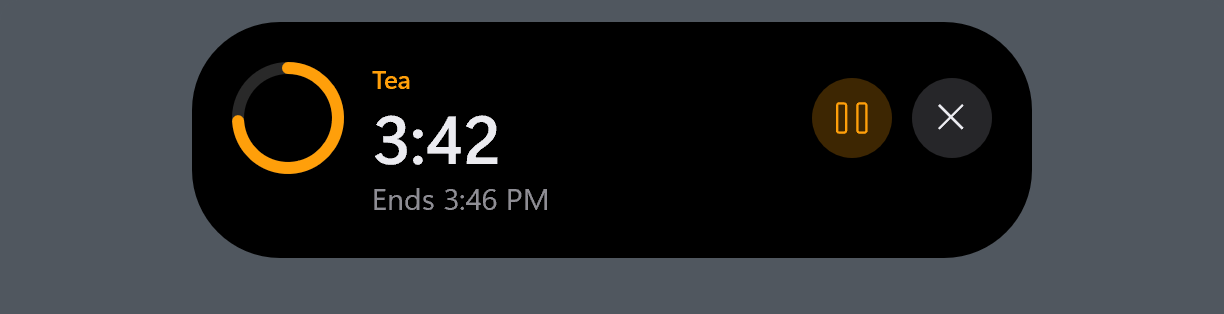
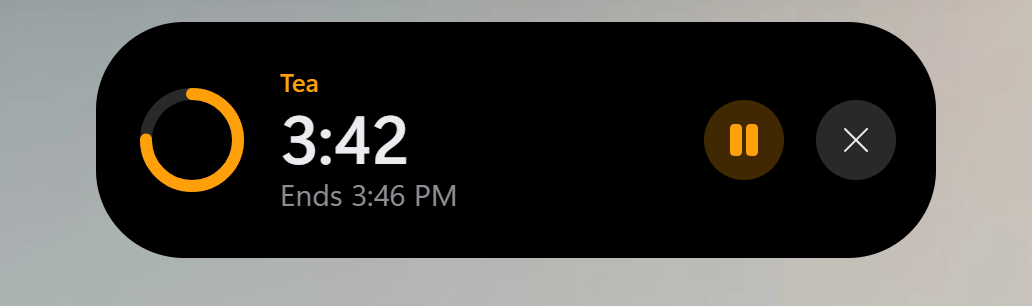
README: real pictures and content, and no click-through claim
The README's pictures now come from the website's island (site/, npm run
readme-images), with real content: Blinding Lights in Spotify with its cover,
the real Claude logo, ReUI's own device drawings, the view switcher under each
place. The old app-stage renderer stays for comparison and writes to %TEMP%.

The README and the guide no longer say a click on a pill that has just appeared
goes through to the window underneath: in the app a click on the pill is always
the island's. What's true stays: outside its shape, and in the strip above it,
clicks reach the window underneath.

diff --git a/README.md b/README.md
@@ -30,10 +30,10 @@
 </p>
 
 <p align="center">
-  <img src="docs/images/hero.png" width="960" alt="The island open at the top of the screen, playing Clair de Lune">
+  <img src="docs/images/hero.png" width="960" alt="The island open at the top of the screen, playing Blinding Lights by The Weeknd in Spotify, with the view switcher under it">
 </p>
 
-ReUI puts a small black island at the top of your screen. It shows what's playing, what you copied, your timers, your devices and the coding agents waiting on you, and lets you act on them without leaving the window you're in. Rest the pointer on it to peek, click to open, scroll to step through everything that's going on. Clicks pass through to the window underneath until you pause on the island, so it never gets in the way of a browser tab.
+ReUI puts a small black island at the top of your screen. It shows what's playing, what you copied, your timers, your devices and the coding agents waiting on you, and lets you act on them without leaving the window you're in. Rest the pointer on it to peek, click to open, scroll to step through everything that's going on. Everywhere outside its own shape it lets clicks through, including the strip above it at the very top of the screen, where a maximised browser keeps its tabs.
 
 It's a native Windows app written in Rust, and it sits idle until something happens: it follows Windows' own events and draws nothing while nothing moves.
 
@@ -41,13 +41,13 @@ It's a native Windows app written in Rust, and it sits idle until something happ
 
 ### Now Playing
 
-<img src="docs/images/now-playing.png" width="403" alt="The pill with music playing and a timer in the bubble beside it">
+<img src="docs/images/now-playing.png" width="212" alt="The pill with music playing: the album cover and the level bars">
 
 Whatever plays on your PC shows in the pill: Spotify, a browser, VLC, Media Player, anything in Windows' media controls. Open it for the artwork, a timeline you can scrub, the player's own controls and the volume. Swipe sideways on the pill to skip a track. Synced lyrics are there when you turn them on.
 
 ### Clipboard history
 
-<img src="docs/images/clipboard.png" width="752" alt="Clipboard history open: a search field and a row of cards for a note, a link, a colour and a command">
+<img src="docs/images/clipboard.png" width="656" alt="Clipboard history open: a search field and a row of cards for a note, a link, a colour and a command, with the view switcher under it">
 
 **Win+Alt+V** brings back everything you copied: text with its formatting, images, files, links with their page's title, colours, code. Type to search, press Enter to paste into the app you were in, or Alt+1 to Alt+9 to paste one of the first nine. Pin what you want to keep. Copies from password managers and anything that looks like a password, key or token are never saved, and the history is kept only on your PC.
 
@@ -57,13 +57,13 @@ Drag files, an image, a link or some text to the top of the screen and the islan
 
 ### Volume and brightness
 
-<img src="docs/images/volume.png" width="392" alt="The volume level in the island, at 56 %">
+<img src="docs/images/volume.png" width="296" alt="The volume level in the island, at 56 %">
 
 The volume and brightness keys show their level in the island, and ReUI can replace Windows' own pop-up. Drag or scroll to change the level, click the icon to mute, switch the output device from its menu. The mixer button lists every app that's playing under it, each with its own level; click an app's icon to mute just that app. Caps Lock, Num Lock, battery saver and microphone mute can show there too.
 
 ### Devices
 
-<img src="docs/images/devices.png" width="612" alt="Wireless earbuds just connected, at 82 % battery">
+<img src="docs/images/devices.png" width="516" alt="Galaxy Buds2 Pro just connected, at 82 % battery">
 
 Bluetooth devices show their battery when they connect. Your PC and its devices warn at 20 % and 10 %, plugging in shows the time to full, and USB drives and memory cards come with **Eject**.
 
@@ -78,7 +78,7 @@ A call in Teams, Zoom, Discord, Slack, Webex, WhatsApp, Telegram or Signal shows
 
 ### System stats
 
-<img src="docs/images/system-stats.png" width="672" alt="System stats open: CPU at 8 % and memory at 42 % as rings with their last minute drawn under them, then GPU, disk and network">
+<img src="docs/images/system-stats.png" width="576" alt="System stats open: CPU at 8 % and memory at 42 % as rings, then GPU, disk and network">
 
 Press **Win+Alt+S** to see how busy your PC is: CPU and memory with their last minute, then GPU, disk and network, live. A number that stays over 90 % turns orange, and the button at the top right opens Task Manager. It reads them only while the card is open, so it costs nothing the rest of the time.
 
@@ -88,7 +88,7 @@ A download from your browser shows in the island while it arrives, with its size
 
 ### Timers and focus
 
-<img src="docs/images/timers.png" width="612" alt="A tea timer counting down, 3:42 left">
+<img src="docs/images/timers.png" width="516" alt="A tea timer counting down, 3:42 left">
 
 Press **Win+Ctrl+T** and type how long: `10`, `90s`, `1h30`, `10m tea`. Run several at once; they keep going through sleep and restarts, and when one ends the island opens with a sound: **Stop**, or **+1 min**. Type `focus` for focus sessions (25 minutes of work, 5-minute breaks) that can turn on Do Not Disturb while you work, or `sw` for a stopwatch with laps.
 
@@ -104,13 +104,13 @@ Your next meeting comes to the island in its last ten minutes, a ring counting d
 
 ### Coding agents
 
-<img src="docs/images/agents.png" width="672" alt="Claude Code asking permission to run npm test, with Deny, Always and Allow">
+<img src="docs/images/agents.png" width="576" alt="Claude Code asking permission to run npm test, with Deny, Always and Allow">
 
 Claude Code, Codex and OpenCode show in the island only when they need you: a permission to allow or deny, a question, a plan or an MCP server's form, a turn that failed. Answer from the island and stay in your editor, or jump straight to the agent's terminal. Each card says which session is asking, shows the full command or the changed lines, and hides anything that looks like a secret. A card never takes your keyboard by itself, so a stray Enter can't allow anything. Connect an agent in Settings → Coding agents.
 
 ### Out of your way
 
-You decide how the island behaves. Open it with a click, or by resting the pointer on it, and choose how long that rest is. Keep it hidden until something needs you, and choose how much of the top edge brings it back, or none. Clicks still go to the browser tab underneath until you rest on it, even when it has only just appeared. Give an app its own rule: hide the island while a game or a presentation is in front, or let only permission requests through while you record. Right-click a moment you don't need (a copy, the volume, a device connecting) to turn that kind off or snooze it for an hour. Permission requests always come through.
+You decide how the island behaves. Open it with a click, or by resting the pointer on it, and choose how long that rest is. Keep it hidden until something needs you, and choose how much of the top edge brings it back, or none. Give an app its own rule: hide the island while a game or a presentation is in front, or let only permission requests through while you record. Right-click a moment you don't need (a copy, the volume, a device connecting) to turn that kind off or snooze it for an hour. Permission requests always come through.
 
 ### Appearance
 
@@ -176,3 +176,5 @@ Settings → Privacy & data lists all of it and opens the folders.
 ## License
 
 Free and open source, under either the [MIT License](LICENSE-MIT) or the [Apache License 2.0](LICENSE-APACHE), at your option.
+
+The pictures in this README are taken from the website's island (`site/`, `npm run readme-images`) on a background from [Super Visuals](https://www.figma.com/community/file/1626392436817658229/super-visuals-50-stunning-backgrounds-v1) ([CC BY 4.0](https://creativecommons.org/licenses/by/4.0/)). Product names and logos belong to their owners.

diff --git a/CLAUDE.md b/CLAUDE.md
@@ -18,7 +18,7 @@ pwsh scripts/package.ps1 -OutDir dist       # setup exe + zip, as .github/workfl
 - Windows only (MSVC toolchain). Debug builds of the hub keep a console for logs; release builds have none.
 - **Run test instances sandboxed:** `REUI_CONFIG_DIR=<dir>` gives the hub, island and Settings their own files, named pipe and single-instance lock, so they run beside the user's installed ReUI without touching its data.
 - Hub flags: `--demo` (`--demo-music`: only its music), `--no-island` (start `reui-island.exe` yourself, e.g. under a debugger), `--no-agents|--no-media|--no-clipboard|--no-osd|--no-devices|--no-timers|--no-privacy|--no-stats|--no-calendar|--no-shelf|--no-downloads|--no-screenshots|--no-activities`, `--notifications` (opt-in module), `--no-updates`, `--no-onboarding`, `--first-run`. Full list in the doc comment at the top of `crates/reui-hub/src/main.rs`.
-- Settings window: `reui-settings.exe --page <name>`, `--shots <dir>` (every page as PNG, no window; `--backdrop-color #RRGGBB` instead of the wallpaper, `--stages` only the island stages), `--perf`. `tools/readme-images.ps1` renders the README's pictures with them into `docs/images`. Perf harnesses: `crates/reui-settings/perf/harness.ps1`, `live.ps1`.
+- Settings window: `reui-settings.exe --page <name>`, `--shots <dir>` (every page as PNG, no window; `--backdrop-color #RRGGBB` instead of the wallpaper, `--stages` only the island stages), `--perf`. `tools/readme-images.ps1` renders the app's own stages with them (to compare against); the README's pictures in `docs/images` come from the website's island: `npm run readme-images` in `site/` with its dev server running. Perf harnesses: `crates/reui-settings/perf/harness.ps1`, `live.ps1`.
 - `node tools/opencode-plugin-test.mjs` runs the OpenCode plugin against a fake OpenCode and bridge (no OpenCode needed).
 - `tools/claude-states.ps1` drives a fake Claude Code session through every state via `reui-bridge` and captures the island into one review sheet (needs the hub running).
 - The website is `site/` (Astro; `npm run dev` there, PRD in `docs/PRD-site.md`); `node scripts/shoot.mjs` screenshots it for review.

diff --git a/docs/guide.md b/docs/guide.md
@@ -15,7 +15,7 @@ ReUI puts a dynamic island at the top of your screen: a small black pill that sh
 | Click the small bubble beside the pill | Brings that activity into the pill |
 | Right-click the pill or the tray icon | Settings, Pause ReUI for 1 hour, Hide the island (Show the island while hidden), Clipboard history, Devices, System stats, Shelf, Timer, Calendar, Quit |
 | Right-click a moment (a copy, the volume, a device connecting, a finished timer or agent turn) | **Don't show these** turns that kind of moment off (turn it back on in its page in Settings); **Snooze for 1 hour** keeps that feature's moments away for an hour (Settings → General → Snoozed → Undo brings them back sooner). Permission requests and questions are never quieted |
-| Push the pointer against the top edge | Shows a hidden island (Settings → General → Show the island: When active / When needed). **Reveal from the top edge** chooses how much of the edge does it: Off, only above the pill (the default), or Wide. A pill that has just appeared takes clicks only once the pointer rests on it, so a quick click still reaches the browser tab underneath |
+| Push the pointer against the top edge | Shows a hidden island (Settings → General → Show the island: When active / When needed). **Reveal from the top edge** chooses how much of the edge does it: Off, only above the pill (the default), or Wide. Around the pill, and in the strip above it, clicks reach the window underneath |
 | Click a glyph under an open card | Goes to that view: Clipboard, Shelf, Timers, Calendar, Devices, System stats, and Now Playing while something plays. The wheel over the glyphs steps through them; Ctrl+Tab / Ctrl+Shift+Tab does too while the card has the keyboard (clipboard history, the timer field). Off in Settings → General → View switcher |
 | Click the dot beside the glyphs | A permission request or question arrived while you were in a view: the dot (in its colour) says it's waiting, and a click brings it forward |
 

diff --git a/site/README.md b/site/README.md
@@ -5,7 +5,8 @@ The landing page (Astro, static). Not deployed yet.
 ```
 npm run dev       # http://localhost:4321
 npm run build     # into dist/
-npm run images    # re-render the island pictures into src/assets/island (needs cargo)
+npm run images          # re-render the app's stages into src/assets/island (needs cargo)
+npm run readme-images   # the README's pictures into docs/images, from this island (dev server running)
 ```
 
 The island pictures are drawn by Settings' shot mode, not captured from a screen: each stage is
